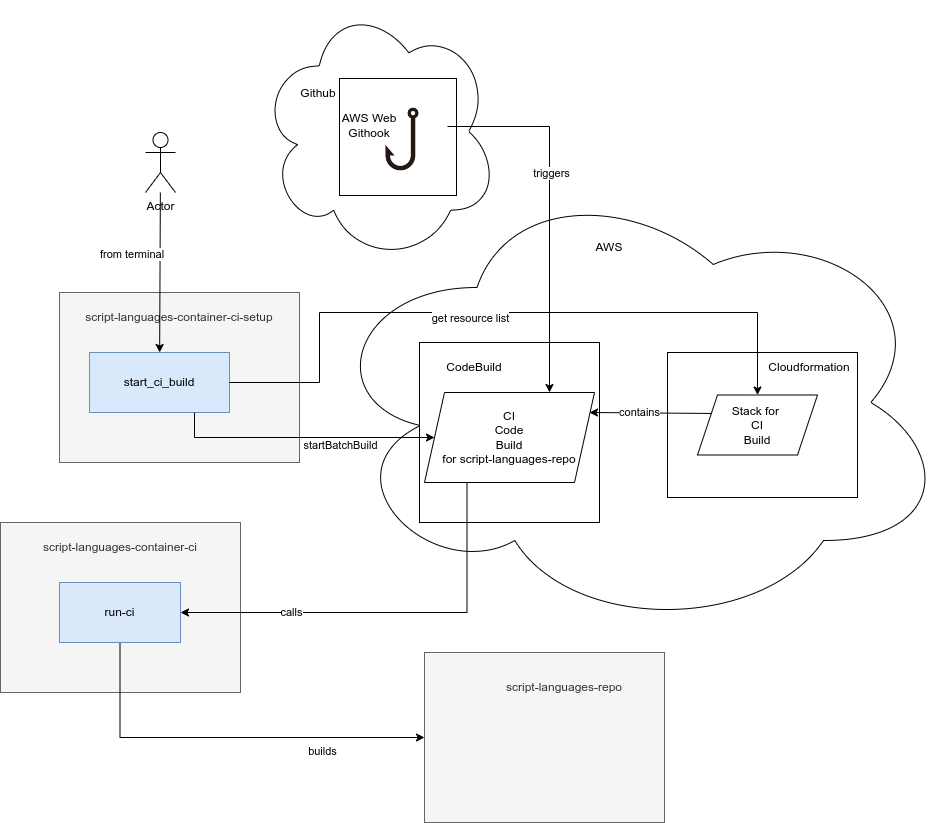
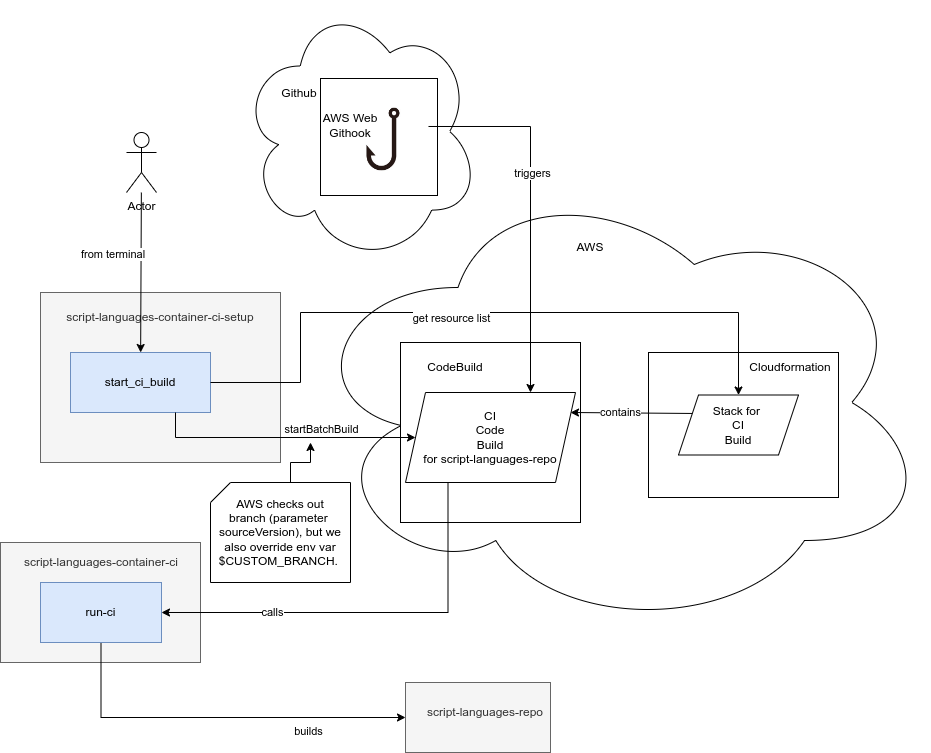
1. remove usage of eval in build_buildspec.yaml 2. Updated documentation

diff --git a/exasol_script_languages_container_ci_setup/lib/run_start_build.py b/exasol_script_languages_container_ci_setup/lib/run_start_build.py
@@ -97,6 +97,10 @@ def run_start_ci_build(aws_access: AwsAccess, project: str, branch: str) -> None
     resources = aws_access.get_all_stack_resources(ci_stack_name(project))
     matching_project = get_aws_codebuild_project(resources, project)
 
+    # AwsAccess.start_codebuild() already indicates the branch (parameter `sourceVersion`)
+    # However, additionally we need to override env variable CUSTOM_BRANCH which will
+    # be used in the build_buildspec.yaml to forward the branch name to exasol_script_languages_container_ci.run_ci()
+    # (which itself uses the parameter to evaluate build strategies)
     env_variables = [("CUSTOM_BRANCH", branch)]
     environment_variables_overrides = list(map(get_environment_variable_override, env_variables))
     aws_access.start_codebuild(matching_project["PhysicalResourceId"],
